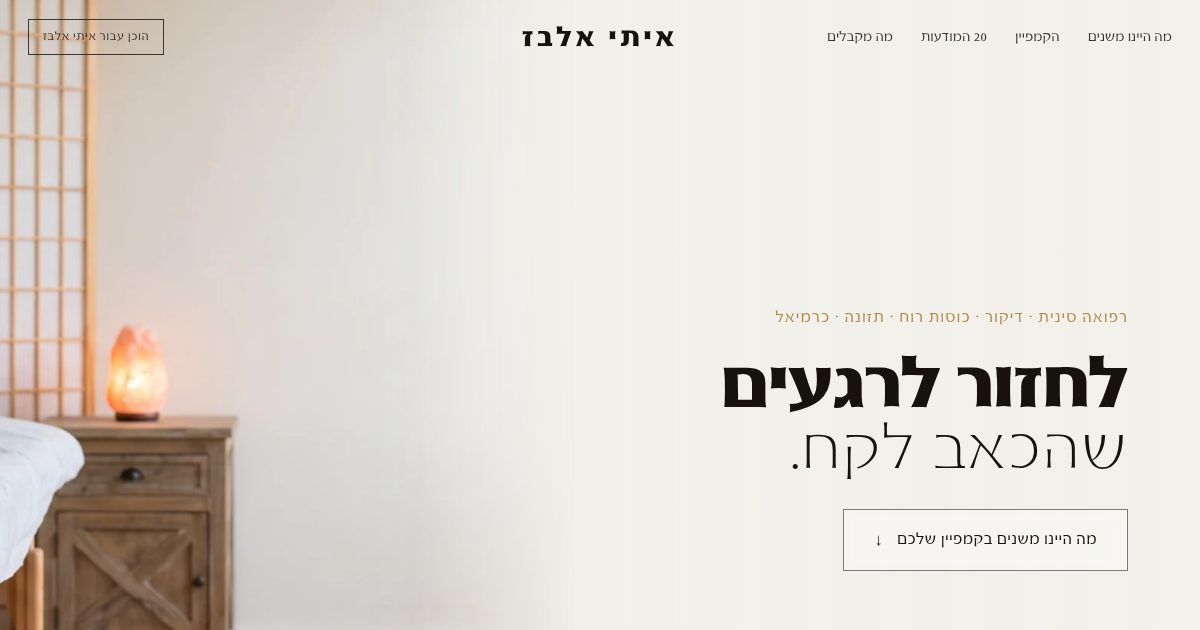
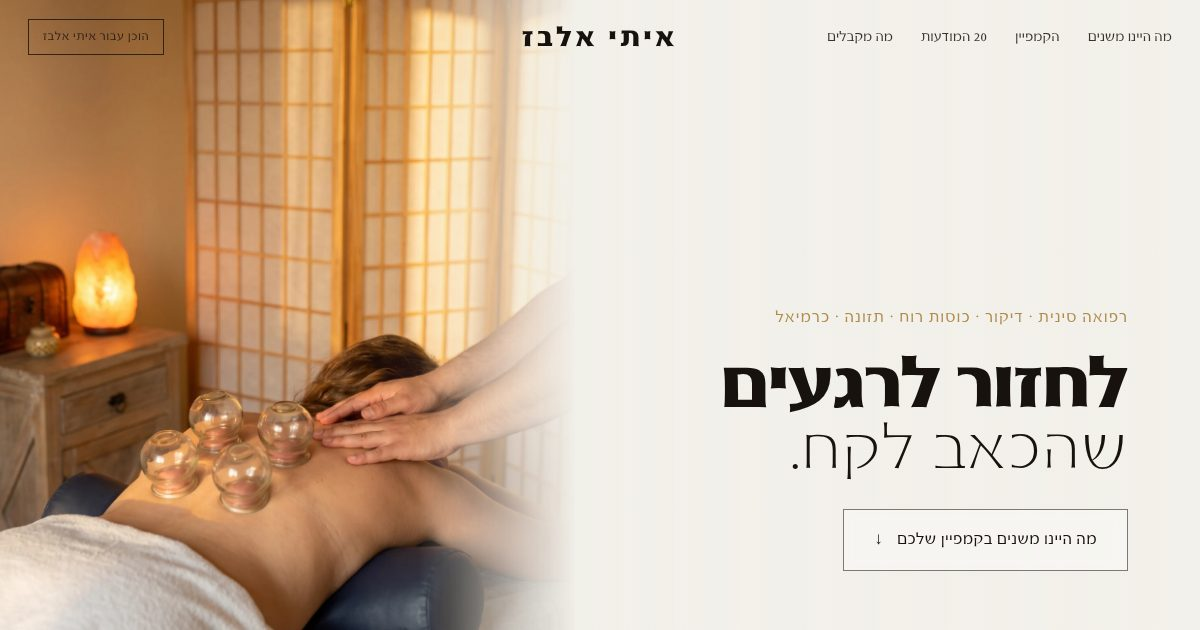
Itai Elbaz: preview image with the new hero; note on hero framing
Claude-Session: https://claude.ai/code/session_01S3VazGLJrtsuzAZqqyRQDD

diff --git a/NOTES.md b/NOTES.md
@@ -417,3 +417,6 @@
 - Page: /p/itai-4b1e7c93, share link https://il-meta.base44.app/s/itai-4b1e7c93.html. CRM: page_ready with message2.
 - Ad Library returned one ad twice (second copy without media); the build drops duplicates.
 - New generic sync helper: `data/deploy/page_sync.sh <hash> <folder> <PageName> <files...>`.
+- Hero: the desktop hero shows the photo in a tall frame (about 4:5) on the left, so a 16:9 hero gets cropped to its
+  middle. The first Itai hero (wide room, empty wall) came out almost blank; replaced with a 4:5 treatment scene
+  (cupping) and a 9:16 version for phones. Generate heroes at 4:5 with the subject filling the frame.
